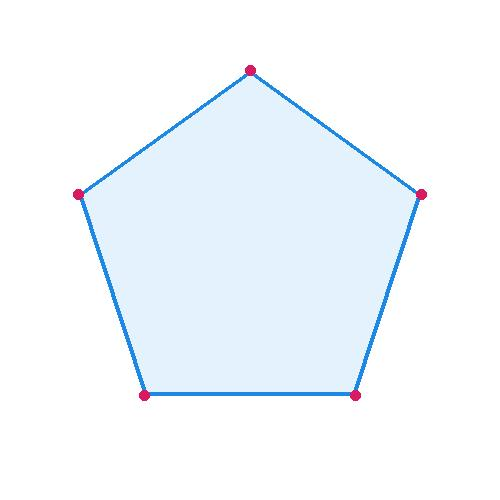
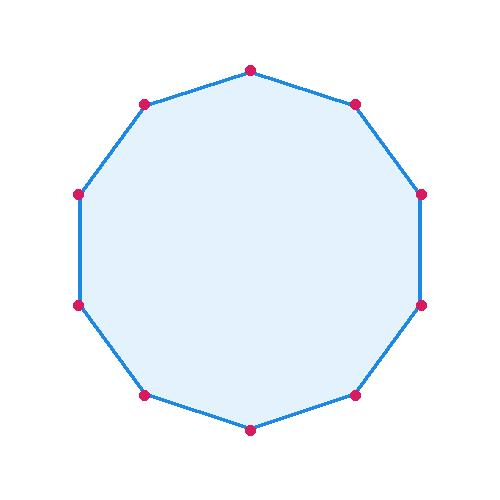
Edit the menu structure and add README

Changed region(s): [[0.15, 0.12, 0.87, 0.87]]

diff --git a/main.py b/main.py
@@ -9,6 +9,8 @@ from langgraph.checkpoint.memory import MemorySaver
 import logger_utils
 from logger_utils import setup_agent_logging, write_log
 
+import re
+
 def run_script(script_name: str) -> str:
     """Runs a specific student script using 'uv run'."""
     script_path = Path(script_name)
@@ -69,6 +71,8 @@ menu_mapping = """
   - Angles (angle.py)
 """
 
+display_menu = re.sub(r"\s*\([a-zA-Z0-9_]+\.py\)", "", menu_mapping)
+
 def main():
    
     print("Welcome to the Hong Kong AI Math Tutor!")
@@ -77,7 +81,7 @@ def main():
     while True:
         print("\n==================================================")
         print("I can help you with:\n")
-        print(menu_mapping.strip())
+        print(display_menu.strip())
         print("==================================================")
 
         user_input = input("\n What topic would you like to learn today? (or 'quit'): ")

diff --git a/README.md b/README.md
@@ -1,0 +1,148 @@
+# Educational Skills
+
+[![Python 3.11+](https://img.shields.io/badge/python-3.11%2B-blue)](https://www.python.org/) [![AI Tutor](https://img.shields.io/badge/project-AI%20Math%20Tutor-orange)](https://github.com/)
+
+Educational Skills is an interactive mathematics learning project that combines Python-based tutors with AI-driven guidance. It helps students explore topics such as fractions, algebra, statistics, geometry, percentages, ratios, and more through guided lessons and quiz-style practice.
+
+## What this project does
+
+This repository contains a collection of math tutoring scripts and supporting skill definitions. The main experience is powered by [main.py](main.py), which launches a conversational tutor that can direct learners to the right topic and start the relevant lesson.
+
+Key capabilities include:
+
+- Topic-based tutoring for elementary math and algebra
+- Interactive quiz-style practice for students
+- AI-assisted explanations and lesson routing through the skills system
+- Visual and statistical helpers for selected topics
+
+## Why it is useful
+
+The project is designed for educators, learners, and developers who want a lightweight way to:
+
+- Practice math concepts in a guided, interactive format
+- Explore a modular set of educational scripts
+- Extend the tutor with new skills or lesson modules
+- Use the repository as a teaching demo or prototype for AI-assisted education
+
+## Project structure
+
+A quick overview of the main parts of the repository:
+
+- [main.py](main.py) – entry point for the main tutor experience
+- [elementary_algebra.py](elementary_algebra.py) – elementary algebra tutor
+- [statistics_tutor.py](statistics_tutor.py) – statistics tutor and quiz flow
+- [skills](skills) – skill documents used by the AI tutor
+- [demo](demo) – demonstration and test materials
+
+## Getting started
+
+### Prerequisites
+
+- Python 3.11 or newer
+- [uv](https://docs.astral.sh/uv/) for dependency and environment management
+
+### Installation
+
+Follow these steps to set up the project locally.
+
+1. Install uv
+
+   Install uv from PyPI using Python:
+
+   ```bash
+   pipx install uv
+   ```
+
+   Verify the installation:
+
+   ```bash
+   uv --version
+   ```
+
+   For more details, see the official uv installation guide: https://docs.astral.sh/uv/getting-started/installation/
+
+2. Install Ollama and a model for the AI tutor
+
+   The project uses the Deep Agents integration with Ollama. Install Ollama from https://ollama.com/download
+
+   If you prefer a different model, update the `model=` value in [main.py](main.py) and [elementary_algebra.py](elementary_algebra.py) to match your local setup.
+
+3. Install the project dependencies
+
+   From the repository root, run:
+
+   ```bash
+    uv init
+    uv add deepagents
+    uv sync
+   ```
+
+   This installs the dependencies declared in [pyproject.toml](pyproject.toml), including the Deep Agents package.
+
+4. Set up your API keys
+
+   ```bash
+   # Local: Ollama must be running on your machine
+    # Cloud: Set your Ollama API key for hosted inference
+    export OLLAMA_API_KEY="your-api-key"
+    export TAVILY_API_KEY="your-tavily-api-key"
+   ```
+
+   The quickstart reference for this setup is here: https://docs.langchain.com/oss/python/deepagents/quickstart#ollama
+
+5. Run the tutor
+
+   ```bash
+   uv run main.py
+   ```
+
+### Run the main tutor
+
+```bash
+uv run main.py
+```
+
+You will be prompted to choose a topic. The tutor will then launch the appropriate lesson or exercise.
+
+### Run a specific lesson directly
+
+You can also launch an individual lesson script directly, for example:
+
+```bash
+uv run percentage.py
+```
+
+## Usage examples
+
+The main experience is conversational. After starting the app, enter a topic such as:
+
+- percentages
+- fractions
+- algebra
+- statistics
+- pythagorean
+- angles
+
+The tutor will route you to the right module and begin the lesson flow.
+
+## Getting help
+
+If you want to understand how the tutoring flow works, start with:
+
+- [main.py](main.py)
+- [skills](skills)
+- [demo](demo)
+
+For topic-specific guidance, inspect the corresponding lesson script and its skill documentation in [skills](skills).
+
+## Latest skill
+The following skills are latest skills:
+-  angle
+-  pythagorean
+-  statistics_tutor
+
+## Contributing
+
+Contributions are welcome. If you would like to improve the tutor, add a new lesson, or refine the AI prompts, please open an issue or submit a pull request with a clear description of the change.
+
+This project is maintained by the repository contributors and is intended as an educational and experimental codebase.

diff --git a/.github/prompts/create-readme.prompt.md b/.github/prompts/create-readme.prompt.md
@@ -1,0 +1,45 @@
+---
+agent: 'agent'
+description: 'Create a comprehensive README.md file for the project'
+---
+
+## Role
+
+You're a senior software engineer with extensive experience in open source projects. You create appealing, informative, and easy-to-read README files.
+
+## Task
+
+1. Review the entire project workspace and codebase
+2. Create a comprehensive README.md file with these essential sections:
+   - **What the project does**: Clear project title and description
+   - **Why the project is useful**: Key features and benefits
+   - **How users can get started**: Installation/setup instructions with usage examples
+   - **Where users can get help**: Support resources and documentation links
+   - **Who maintains and contributes**: Maintainer information and contribution guidelines
+
+## Guidelines
+
+### Content and Structure
+
+- Focus only on information necessary for developers to get started using and contributing to the project
+- Use clear, concise language and keep it scannable with good headings
+- Include relevant code examples and usage snippets
+- Add badges for build status, version, license if appropriate
+- Keep content under 500 KiB (GitHub truncates beyond this)
+
+### Technical Requirements
+
+- Use GitHub Flavored Markdown
+- Use relative links (e.g., `docs/CONTRIBUTING.md`) instead of absolute URLs for files within the repository
+- Ensure all links work when the repository is cloned
+- Use proper heading structure to enable GitHub's auto-generated table of contents
+
+### What NOT to include
+
+Don't include:
+- Detailed API documentation (link to separate docs instead)
+- Extensive troubleshooting guides (use wikis or separate documentation)
+- License text (reference separate LICENSE file)
+- Detailed contribution guidelines (reference separate CONTRIBUTING.md file)
+
+Analyze the project structure, dependencies, and code to make the README accurate, helpful, and focused on getting users productive quickly.
